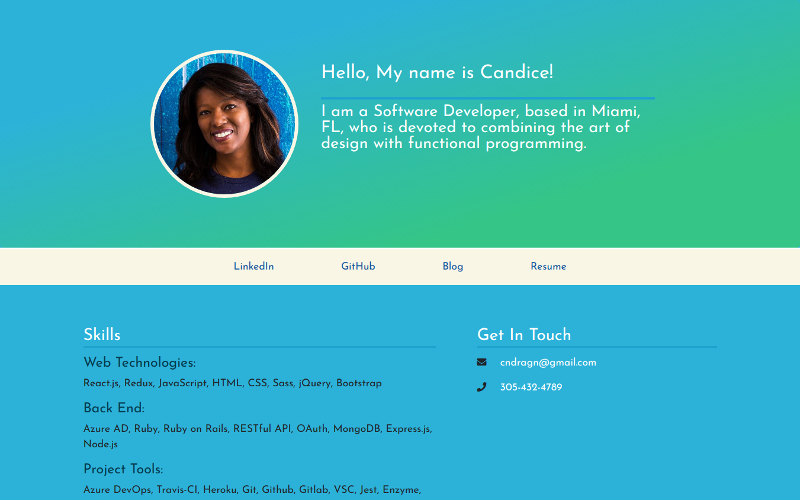
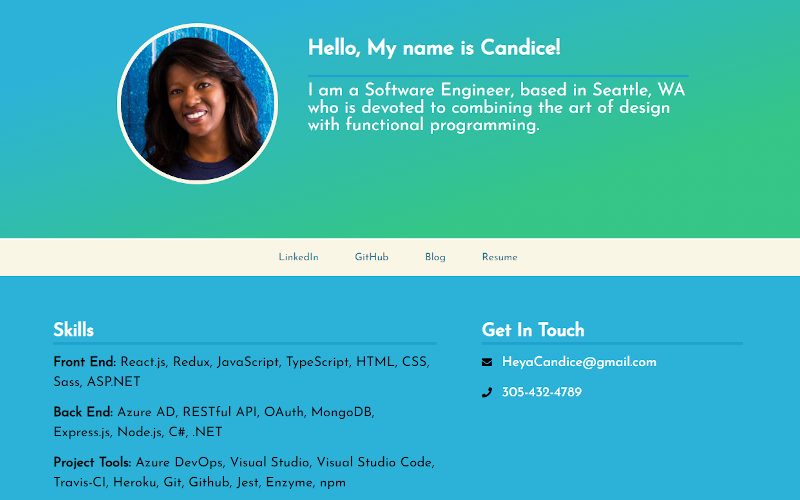
update bio , tech and email

diff --git a/src/pages/index.js b/src/pages/index.js
@@ -1,111 +1,119 @@
-import React from 'react';
-import { Link, graphql } from 'gatsby';
+import React from "react"
+import { Link, graphql } from "gatsby"
 
-import '../css/style.css';
-import '../css/portfolio.css';
+import "../css/style.css"
+import "../css/portfolio.css"
 
-import SEO from '../components/seo';
-import Header from '../components/Header';
-import Social from '../components/Social';
+import SEO from "../components/seo"
+import Header from "../components/Header"
+import Social from "../components/Social"
 // import Details from './Details';
-import Portfolio from '../components/Portfolio';
-import Footer from '../components/Footer';
+import Portfolio from "../components/Portfolio"
+import Footer from "../components/Footer"
 
-const IndexPage = (props) => {
-	const postList = props.data.allMarkdownRemark;
-	return (
-		<div id="home">
-			<SEO title="Software Developer" keywords={[ `gatsby`, `application`, `react` ]} />
-			<Header />
-			<Social />
-			<div className="container main">
-				<div className="row">
-					<div className="skills col-sm-12 col-md-7">
-						<div className="card">
-							<div className="card-body">
-								<h3 className="card-title">Skills</h3>
-								<h4>Web Technologies:</h4>
-								<p className="card-text">
-									React.js, Redux, JavaScript, HTML, CSS, Sass, jQuery, Bootstrap
-								</p>
-								<h4>Back End:</h4>
-								<p className="card-text">
-									Azure AD, Ruby, Ruby on Rails, RESTful API, OAuth, MongoDB, Express.js, Node.js
-								</p>
-								<h4>Project Tools:</h4>
-								<p className="card-text">
-									Azure DevOps, Travis-CI, Heroku, Git, Github, Gitlab, VSC, Jest, Enzyme, Agile, npm
-								</p>
-							</div>
-						</div>
-					</div>
-					<div className="contact col-sm-12 col-md-5">
-						<div className="card">
-							<div className="card-body">
-								<h3 className="card-title">Get In Touch</h3>
-								<p className="card-text">
-									<i className="fa fa-envelope" aria-hidden="true" />
-									<a href="mailto:cndragn@gmail.com">cndragn@gmail.com</a>
-								</p>
-								<p className="card-text">
-									<i className="fa fa-phone" aria-hidden="true" />
-									<a href="tel:305-432-4789">305-432-4789</a>
-								</p>
-							</div>
-						</div>
-						<div className="card">
-							<div className="card-body">
-								<h3 className="card-title">Recent Posts</h3>
-								<p className="card-text" />
-								<div>
-									{postList.edges.slice(0, 3).map(({ node }, i) => (
-										<p className="recent" key={i}>
-											<span>{node.frontmatter.date}</span>
-											<Link to={node.fields.slug}>{node.frontmatter.title}</Link>
-										</p>
-									))}
-								</div>
-							</div>
-						</div>
-					</div>
-				</div>
-			</div>
-			<Portfolio />
-			<Footer />
-		</div>
-	);
-};
+const IndexPage = props => {
+  const postList = props.data.allMarkdownRemark
+  return (
+    <div id="home">
+      <SEO
+        title="Software Developer"
+        keywords={[`gatsby`, `application`, `react`]}
+      />
+      <Header />
+      <Social />
+      <div className="container main">
+        <div className="row">
+          <div className="skills col-sm-12 col-md-7">
+            <div className="card">
+              <div className="card-body">
+                <h3 className="card-title">Skills</h3>
+                <h4>Front End:</h4>
+                <p className="card-text">
+                  React.js, Redux, JavaScript, TypeScript, HTML, CSS, Sass,
+                  ASP.NET
+                </p>
+                <h4>Back End:</h4>
+                <p className="card-text">
+                  Azure AD, RESTful API, OAuth, MongoDB, Express.js, Node.js,
+                  C#, .NET
+                </p>
+                <h4>Project Tools:</h4>
+                <p className="card-text">
+                  Azure DevOps, Visual Studio, Visual Studio Code, Travis-CI,
+                  Heroku, Git, Github, Jest, Enzyme, npm
+                </p>
+              </div>
+            </div>
+          </div>
+          <div className="contact col-sm-12 col-md-5">
+            <div className="card">
+              <div className="card-body">
+                <h3 className="card-title">Get In Touch</h3>
+                <p className="card-text">
+                  <i className="fa fa-envelope" aria-hidden="true" />
+                  <a href="mailto:cndragn@gmail.com">HeyaCandice@gmail.com</a>
+                </p>
+                <p className="card-text">
+                  <i className="fa fa-phone" aria-hidden="true" />
+                  <a href="tel:305-432-4789">305-432-4789</a>
+                </p>
+              </div>
+            </div>
+            <div className="card">
+              <div className="card-body">
+                <h3 className="card-title">Recent Posts</h3>
+                <p className="card-text" />
+                <div>
+                  {postList.edges.slice(0, 3).map(({ node }, i) => (
+                    <p className="recent" key={i}>
+                      <span>{node.frontmatter.date}</span>
+                      <Link to={node.fields.slug}>
+                        {node.frontmatter.title}
+                      </Link>
+                    </p>
+                  ))}
+                </div>
+              </div>
+            </div>
+          </div>
+        </div>
+      </div>
+      <Portfolio />
+      <Footer />
+    </div>
+  )
+}
 
-export default IndexPage;
+export default IndexPage
 
 export const postsQuery = graphql`
-	query postsQuery {
-		allMarkdownRemark(
-			sort: { order: DESC, fields: [frontmatter___date] }
-			filter: { frontmatter: { draft: { ne: true } } }
-		) {
-			edges {
-				node {
-					fields {
-						slug
-					}
-					excerpt(pruneLength: 130)
-					frontmatter {
-						date(formatString: "MMM DD")
-						title
-						image {
-							childImageSharp {
-								resize(width: 1140, height: 300) {
-									src
-								}
-								fluid(maxWidth: 786) {
-									...GatsbyImageSharpFluid
-								}
-							}
-						}
-					}
-				}
-			}
-		}
-	}
-`;
+  query postsQuery {
+    allMarkdownRemark(
+      sort: { order: DESC, fields: [frontmatter___date] }
+      filter: { frontmatter: { draft: { ne: true } } }
+    ) {
+      edges {
+        node {
+          fields {
+            slug
+          }
+          excerpt(pruneLength: 130)
+          frontmatter {
+            date(formatString: "MMM DD")
+            title
+            image {
+              childImageSharp {
+                resize(width: 1140, height: 300) {
+                  src
+                }
+                fluid(maxWidth: 786) {
+                  ...GatsbyImageSharpFluid
+                }
+              }
+            }
+          }
+        }
+      }
+    }
+  }
+`

diff --git a/src/pages/Details.js b/src/pages/Details.js
@@ -1,52 +1,57 @@
-import React from 'react';
+import React from "react"
 // import RecentPosts from '../pages/recentPosts';
 
-const Details = (props) => {
-	return (
-		<div className="container main">
-			<div className="row">
-				<div className="skills col-sm-12 col-md-7">
-					<div className="card">
-						<div className="card-body">
-							<h3 className="card-title">Skills</h3>
-							<h4>Web Technologies:</h4>
-							<p className="card-text">React.js, Redux, JavaScript, HTML, CSS, Sass, jQuery, Bootstrap</p>
-							<h4>Back End:</h4>
-							<p className="card-text">
-								Azure AD, Ruby, Ruby on Rails, RESTful API, OAuth, MongoDB, Express.js, Node.js
-							</p>
-							<h4>Project Tools:</h4>
-							<p className="card-text">
-								Azure DevOps, Travis-CI, Heroku, Git, Github, Gitlab, VSC, Jest, Enzyme, Agile, npm
-							</p>
-						</div>
-					</div>
-				</div>
-				<div className="contact col-sm-12 col-md-5">
-					<div className="card">
-						<div className="card-body">
-							<h3 className="card-title">Get In Touchl</h3>
-							<p className="card-text">
-								<i className="fa fa-envelope" aria-hidden="true" />
-								<a href="mailto:cndragn@gmail.com">cndragn@gmail.com</a>
-							</p>
-							<p className="card-text">
-								<i className="fa fa-phone" aria-hidden="true" />
-								<a href="tel:305-432-4789">305-432-4789</a>
-							</p>
-						</div>
-					</div>
-					<div className="card">
-						<div className="card-body">
-							<h3 className="card-title">Recent Posts</h3>
-							<p className="card-text" />
-							{/* <RecentPosts /> */}
-						</div>
-					</div>
-				</div>
-			</div>
-		</div>
-	);
-};
+const Details = props => {
+  return (
+    <div className="container main">
+      <div className="row">
+        <div className="skills col-sm-12 col-md-7">
+          <div className="card">
+            <div className="card-body">
+              <h3 className="card-title">Skills</h3>
+              <h4>Front End:</h4>
+              <p className="card-text">
+                React.js, Redux, JavaScript, TypeScript, HTML, CSS, Sass,
+                ASP.NET
+              </p>
+              <h4>Back End:</h4>
+              <p className="card-text">
+                Azure AD, RESTful API, OAuth, MongoDB, Express.js, Node.js, C#,
+                .NET
+              </p>
+              <h4>Project Tools:</h4>
+              <p className="card-text">
+                Azure DevOps, Visual Studio, Visual Studio Code, Travis-CI,
+                Heroku, Git, Github, Jest, Enzyme, npm
+              </p>
+            </div>
+          </div>
+        </div>
+        <div className="contact col-sm-12 col-md-5">
+          <div className="card">
+            <div className="card-body">
+              <h3 className="card-title">Get In Touch</h3>
+              <p className="card-text">
+                <i className="fa fa-envelope" aria-hidden="true" />
+                <a href="mailto:cndragn@gmail.com">HeyaCandice@gmail.com</a>
+              </p>
+              <p className="card-text">
+                <i className="fa fa-phone" aria-hidden="true" />
+                <a href="tel:305-432-4789">305-432-4789</a>
+              </p>
+            </div>
+          </div>
+          <div className="card">
+            <div className="card-body">
+              <h3 className="card-title">Recent Posts</h3>
+              <p className="card-text" />
+              {/* <RecentPosts /> */}
+            </div>
+          </div>
+        </div>
+      </div>
+    </div>
+  )
+}
 
-export default Details;
+export default Details

diff --git a/src/components/Header.js b/src/components/Header.js
@@ -12,7 +12,7 @@ const Header = () => (
 					<div className="col-sm-12 col-md-8 text-sm-center text-md-left">
 						<h3>Hello, My name is Candice!</h3>
 						<p className="lead">
-							I am a Software Developer, based in Miami, FL, who is devoted to combining the art of design
+							I am a Software Engineer based in Seattle, WA who is devoted to combining the art of design
 							with functional programming.
 						</p>
 					</div>
